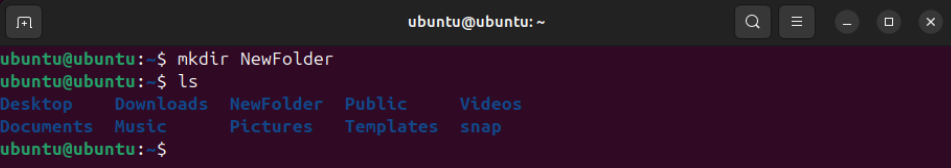
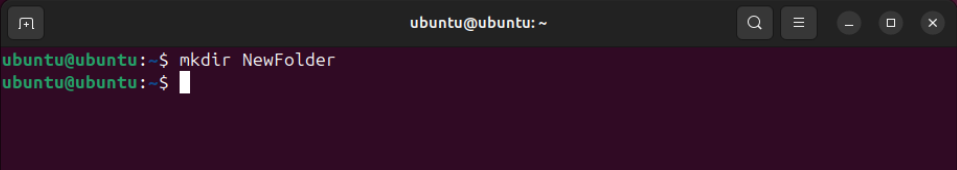
commiting viewing and editing files

diff --git a/01.Essential-Linux-Commands/README.md b/01.Essential-Linux-Commands/README.md
@@ -1,48 +1,169 @@
 # Essential Linux Commands
 # 1. Basic Commands
 ## 1.1  Navigation and File Operations
+Navigation and file operations in Linux involve a set of essential commands that allow users to interact with the filesystem
 ## i. 'pwd' Command - Print Working Directory
 pwd, an acronym for "present working directory," displays the current directory's full path.
+
+pwd command syntax:`pwd`
 ![pwd command](./img/01.png)
 ## ii. 'ls' Command - List directory contents
 The ls command lists files and directories in the current directory. 
+
+ls command syntax:`ls`
 ![ls command](./img/02.png)
 
 For example, ls -a displays all files, including hidden ones.
+
+command syntax:`ls -a`
 ![ls -a command](./img/03.png) 
 ## iii. 'cd' Command - Change directory
 The cd command, short for "change directory," allows users to switch directories. If no directory is specified, it defaults to the user's home directory.
+
+cd command syntax:`cd [directory]`
 ![cd command](./img/04.png)
 ## iv. 'cp' Command - Copy files or directories
 The cp command copies files or directories to a specified location, useful for creating backups or duplicating data.
+
+cp command syntax:`cp [option] source destination`
+
+`cp filename.txt /path/to/destination/`
+
 ![cp command](./img/05.png) 
 
 To confirm the file was copied to the Downloads directory, use the cd command to navigate to the destination (Downloads) directory and list the contents with the ls command.
 ![cp confirmation](./img/06.png)
 ## v. 'mv' Command - Move/rename files or directories
 The mv command moves or renames files and directories. If the destination exists, it will be overwritten.
+
+mv command syntax: `mv [options] source destination`
 ![mv command](./img/07.png) 
 
 Use the ls command to verify the mv command operation. 
 ![mv confirmation](./img/08.png)
 ## vi. 'rm' Command - Remove files or directories
 The rm command deletes files or directories. Multiple files can be removed simultaneously. ls command used to verify the rm command.
-![rm command](./img/09.png)
+
+rm command syntax: `rm [options] file(s)`
+
+to remove a single file syntax: `rm filename.txt`
+![rm command](./img/9.png)
+
+to remove multiple file syntax: `rm file1.txt file2.txt file3.txt`
+![rm multiple files command](./img/10a.png)
+
+to remove directory syntax: `rm -r directoryname`
+![rm director files command](./img/10b.png)
+
+to force remove a file or directory without prompting for confirmation: `rm -f filename.txt`
+![rm files/director command](./img/10c.png)
+
+to force remove a directory and its contents without prompting for confirmation: `rm -rf directoryname`
+![rm director with content command](./img/10d.png)
+
 ## vii. 'mkdir' Command - Create a new directory
 The mkdir command creates new directories. Multiple directories an be created simultaneously.
-![mkdir command](./img/10.png) 
 
+mkdir command syntax: `mkdir directory.name`
+![mkdir command](./img/11.png) 
 Use the ls command to verify the mkdir command operation.
-![mkdir confirmation](./img/11.png)
-## viii. 'rmdir' Command - Remove an empty directory
-The rmdir command removes empty directories.
-![rmdir command](./img/12.png) 
+![mkdir confirmation](./img/12.png)
 
-Use the ls command to verify the rmdir command operation.
-![mkdir confirmation](./img/13.png)
-## ix. 'touch' Command - Create an empty file or update the timestamp
+## viii. 'touch' Command - Create an empty file or update the timestamp
 The touch command creates an empty file or updates the timestamp of an existing file.
-![touch command](./img/14.png)
- 
+
+touch command syntax: `touch file.name`
+![touch command](./img/13.png)
+
 Use the ls command to verify the touch command operation.
-![touch confirmation](./img/15.png)
+![touch confirmation](./img/14.png)
+## 1.2 Viewing and Editing Files
+There are bunch of Linux commands and text editors that come in handy when you need to check out or make changes, to files. Tools like cat, more, less, head and tail help you peek into file contents in ways. When it comes to editing nano is an user friendly text editor option while vi caters to those looking for advanced functionalities. These tools are crucial for navigating through files, in a Linux setup.
+## i. 'cat' command - Concatenate and display file content
+cat, short for "concatenate," reads, combines, and displays file contents. Use cat followed by the file name to execute.
+
+cat command syntax:`cat filename.txt`
+![cat command](./img/15.png)
+
+## ii. 'more' command - View file content interactively
+more command displays the contents of a file, one screen at a time in the terminal. It’s useful if you have a large ﬁle. For instance, cat displays the entire contents of a file all at once. Using more, you navigate through the ﬁle, page by page. It’s quite handy for large ﬁles.
+
+more command syntax:`more filename.txt`
+![more command](./img/16.png)
+
+Excuting more command with large file
+![more command with large file](./img/17.png)
+### Key Navigation for more command
+    - Press 'Space' to move to the next page.
+    - Press 'Enter' to move to the next line.
+    - Press 'b' to move back one page.
+    - Press 'q' to quit the more viewer.
+## iii. 'less' command - View file content interactively with more options
+The less command works similar to the more command in the terminal, but with more advanced features. It allows not just forward but backward navigation through the file as well.
+
+less command syntax:`less filename.txt`
+![less command](./img/18.png)
+![less command view](./img/19.png)
+### Key Navigation for less command
+    - 'Space' or 'f' to move forward one page.
+    - 'b' to move backward one page.
+    - 'Enter' to move forward one line.
+    - 'y' to move backward one line.
+    - 'n' to repeat the last search forward.
+    - 'N' to repeat the last search backward.
+    - 'q' to quit the viewer.
+## iv. 'head' commad - View the first few lines of a file
+The head command shows the first few lines of a file. You can specify the number of lines from the command line with an option.
+
+head command syntax: `head [Option] filename.txt`
+![head command](./img/20.png)
+
+## v. 'tail' command - View the last few lines of a file
+The tail command prints the last 10 lines of a file, useful for reviewing newly-written data or to check error messages.
+
+tail command syntax: `tail [Option] filename.txt`
+![tail command](./img/21.png)
+
+## vi. Nano & vi- Simple text editor
+Two of the most widely used Linux text editors are Nano and vi, each with advantages and disadvantages of their own. Nano is incredibly user-friendly and basic. Nano is great for binners who just wants to open a text file, make a few quick changes, and close it, this is ideal. With its very clear screen and commands that can be executed on it for simple editing and navigation, Nano doesn't require any prior knowledge to begin using. On the other hand, vi is incredibly configurable and powerful. Power users discover that it becomes incredibly simple to use because it has so many power features and shortcuts. Thus, vi can be used to make intricate changes to a file.
+#### To execute nano command
+nano command syntax: `filename.txt`
+![nano command](./img/22.png)
+![tail command1](./img/23.png)
+#### Key Commands
+    - ^G (Ctrl + G): Display help
+    - ^O (Ctrl + O): Write out (save) the file
+    - ^X (Ctrl + X): Exit Nano
+    - ^W (Ctrl + W): Search within the file
+    - ^K (Ctrl + K): Cut text
+    - ^U (Ctrl + U): Paste text
+    - ^C (Ctrl + C): Show the current cursor position
+    - ^\ (Ctrl + ): Replace text
+ To save the changes, press Ctrl + O, then press enter to exit. To close Nano, press Ctrl + X. If you have unsaved changes, you’ll be prompted to save them before Nano exits.
+#### To execute vi command
+Basic Vim Modes:
+Normal Mode: For navigation and text manipulation (default mode when Vim starts).
+Insert Mode: For text entry (press i to enter this mode from Normal Mode).
+Command-Line Mode: For executing commands (press : to enter this mode from Normal Mode).
+
+vi command syntax: `vi filename.txt`
+![vi command](./img/24.png)
+
+vi Key Commands:
+#### In Normal Mode:
+    - i: Switch to Insert Mode at cursor position.
+    - Esc: Switch back to Normal Mode.
+    - :w: Save the file.
+    - :q: Quit Vim.
+    - :wq: Save and quit Vim.
+    - :q!: Quit without saving changes.
+#### In Insert Mode:
+    - Esc: Switch back to Normal Mode.
+#### Command-Line Mode:
+    - :w: Save the file.
+    - :q: Quit Vim.
+    - :wq: Save and quit Vim.
+    - :q!: Quit without saving changes.
+
+
+
